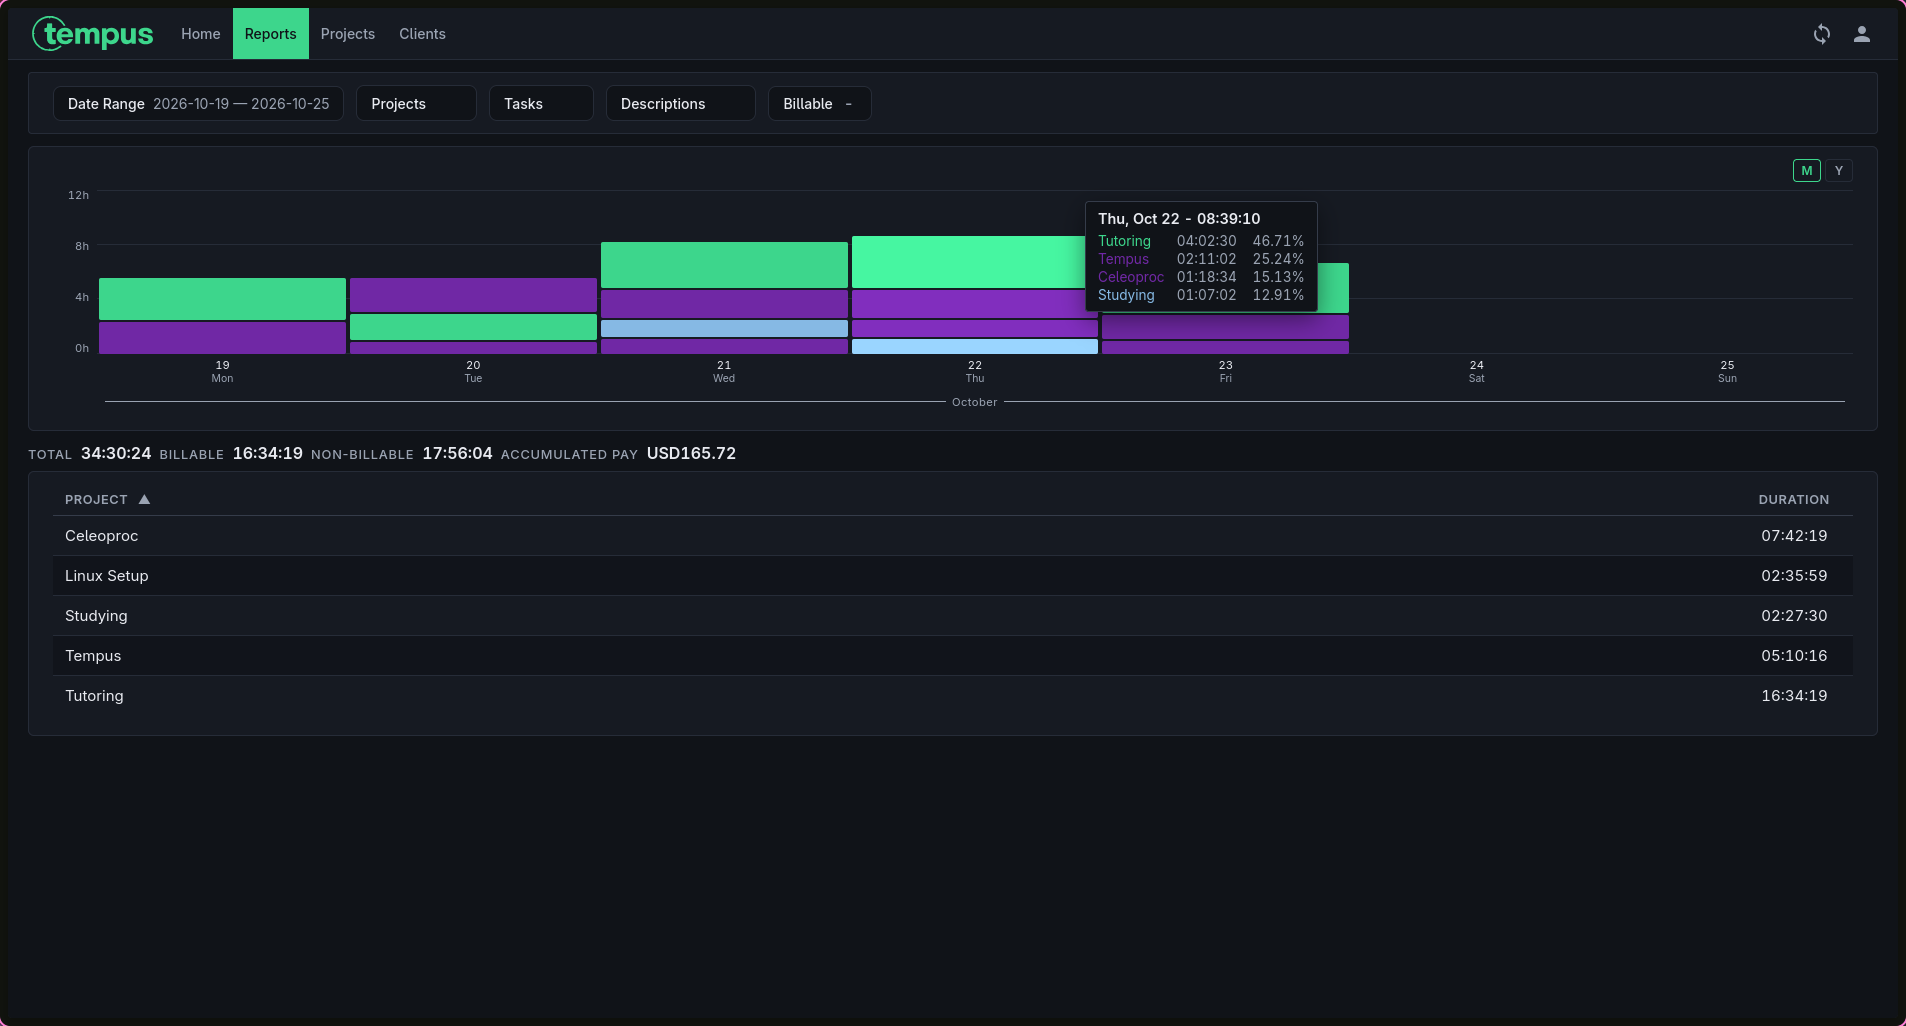
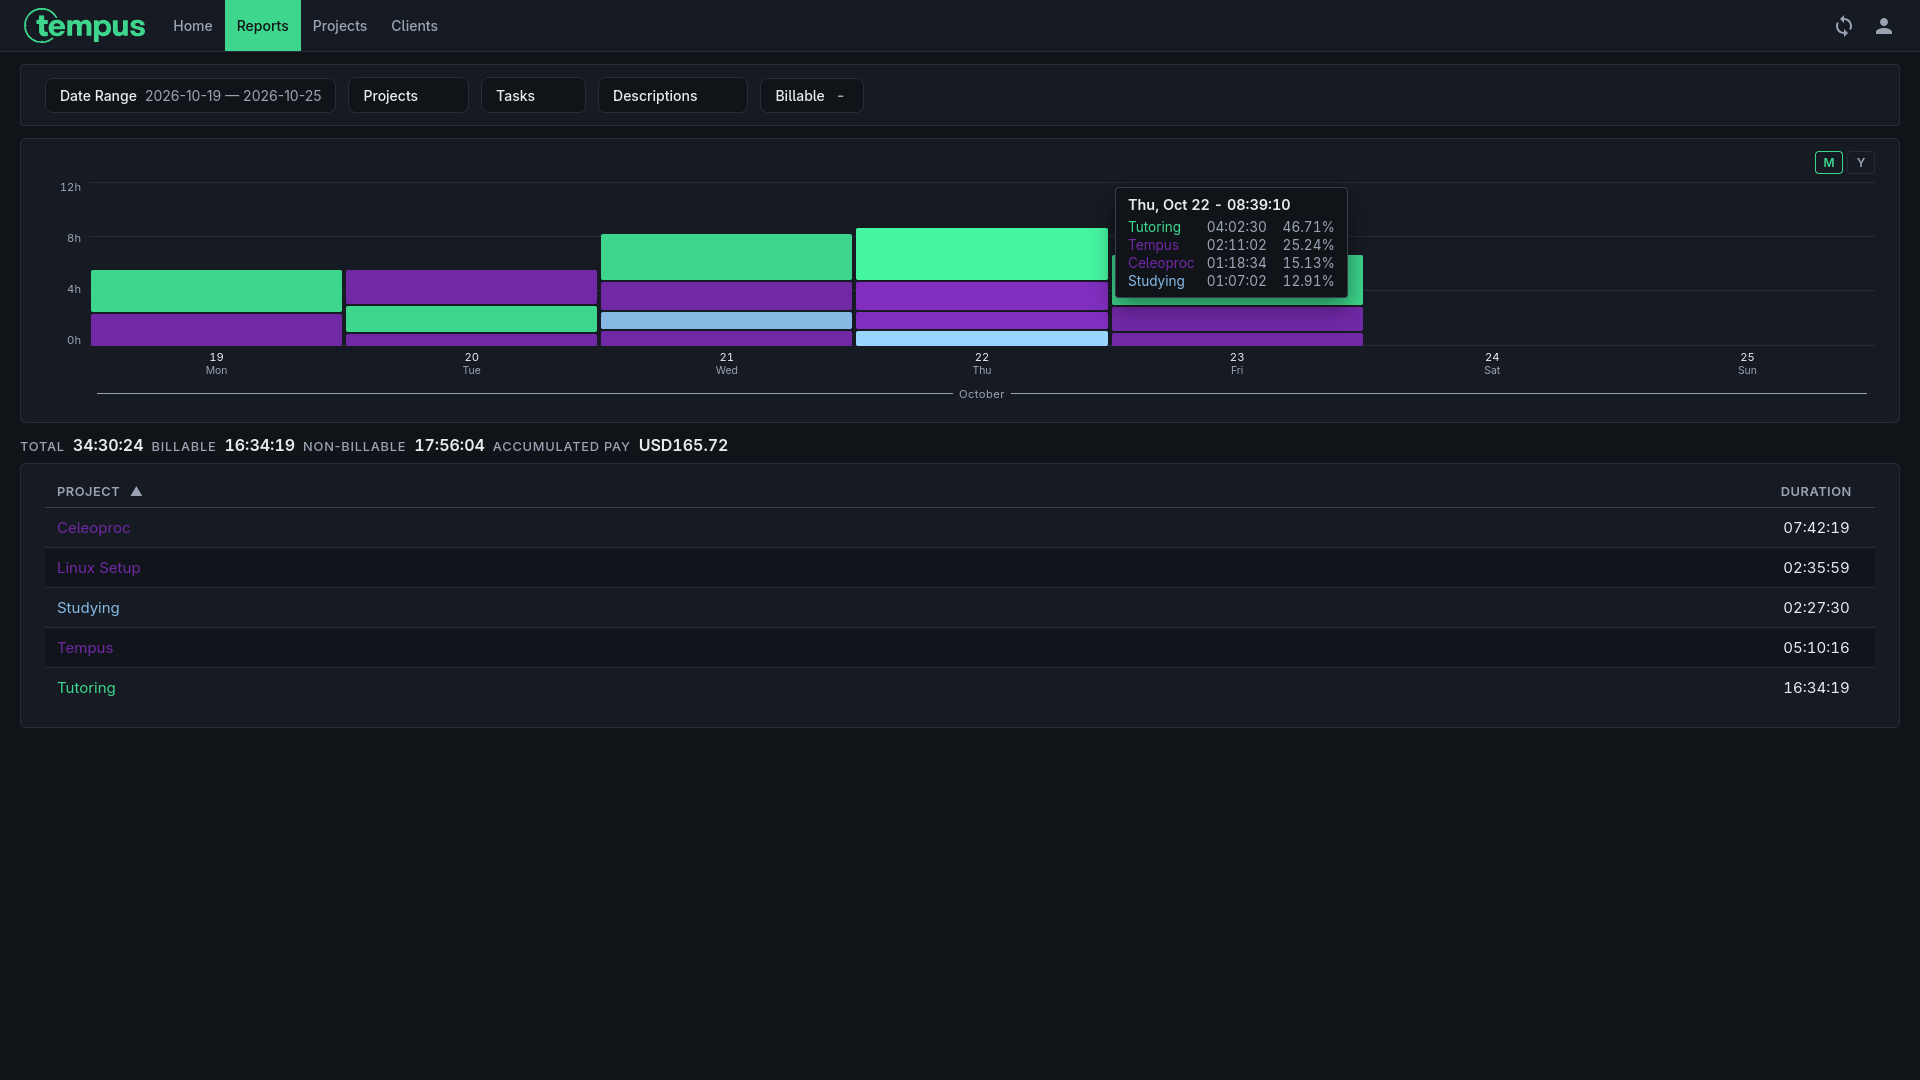
feat: Add project colors to report details list

diff --git a/frontend/src/app/reports/reports-page/report-details-list/report-details-list.html b/frontend/src/app/reports/reports-page/report-details-list/report-details-list.html
@@ -19,7 +19,11 @@
     [cellTemplates]="{ project: projectCell, duration: durationCell }"
   >
     <ng-template #projectCell let-entry>
-      {{ entry.project.name }}
+      <span
+        class="project-name"
+        [class.project-name--archived]="entry.project.isArchived"
+        [style.--project-color]="entry.project.color"
+      >{{ entry.project.name }}</span>
     </ng-template>
     <ng-template #durationCell let-entry>
       {{ entry.trackedTimeMillis | msToHHMMSS }}

diff --git a/frontend/src/app/reports/reports-page/report-details-list/report-details-list.css b/frontend/src/app/reports/reports-page/report-details-list/report-details-list.css
@@ -26,3 +26,11 @@
   color: var(--fg);
   font-variant-numeric: tabular-nums;
 }
+
+.project-name {
+  color: var(--project-color, var(--fg));
+}
+
+.project-name--archived {
+  color: var(--muted);
+}
